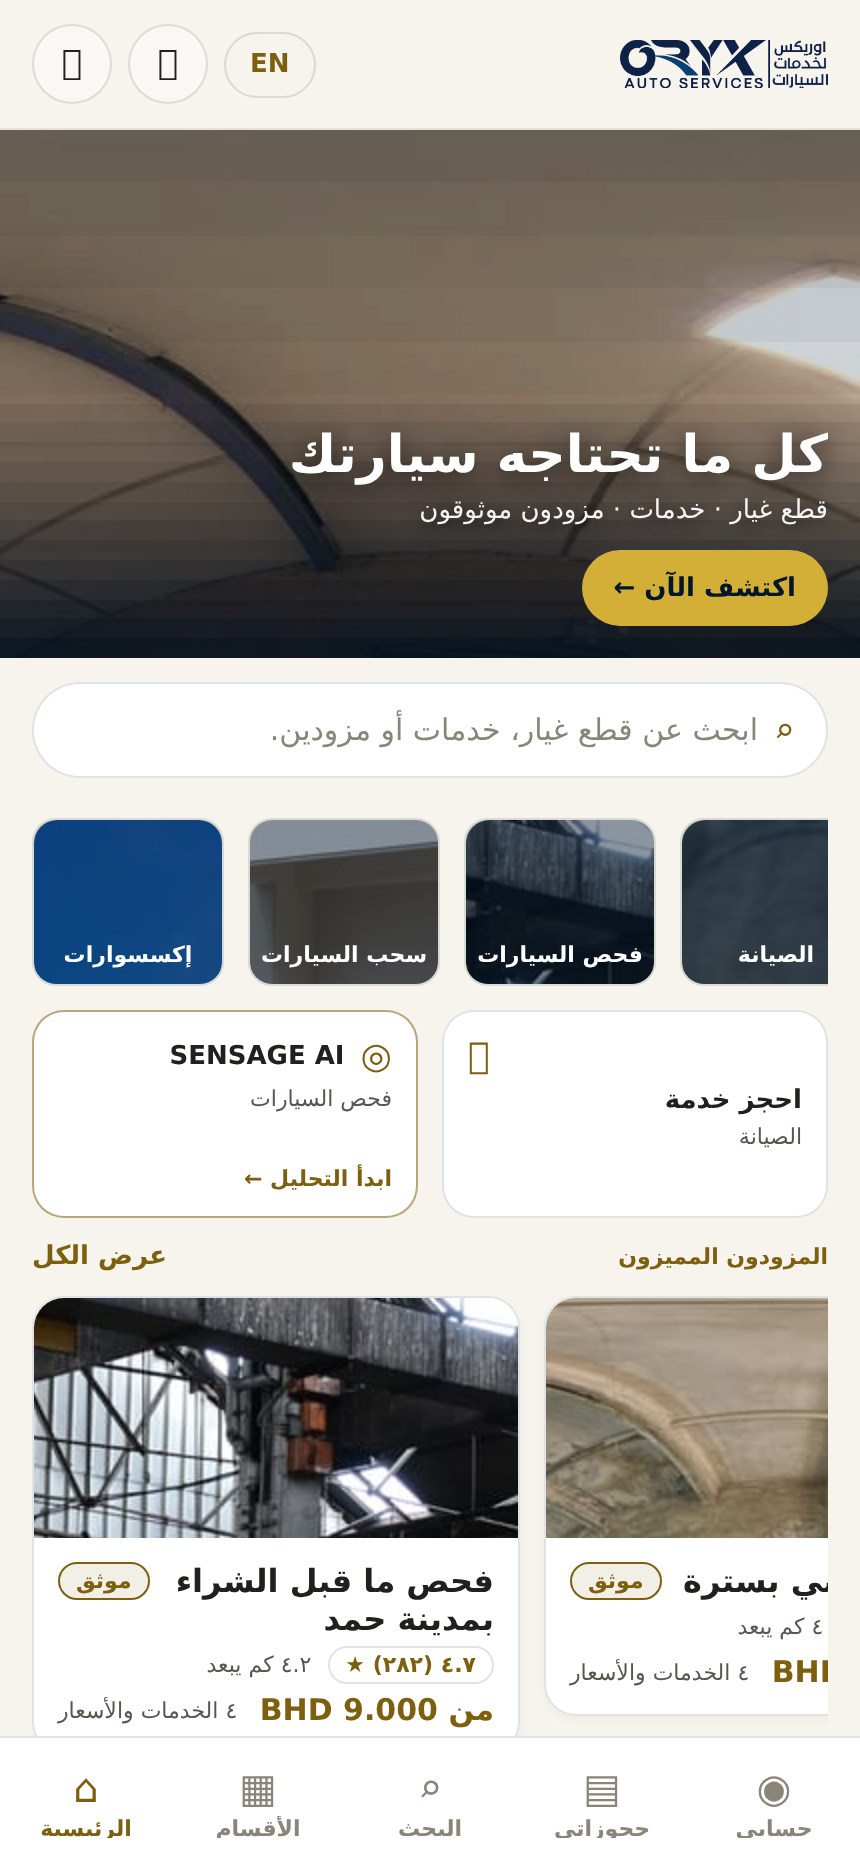
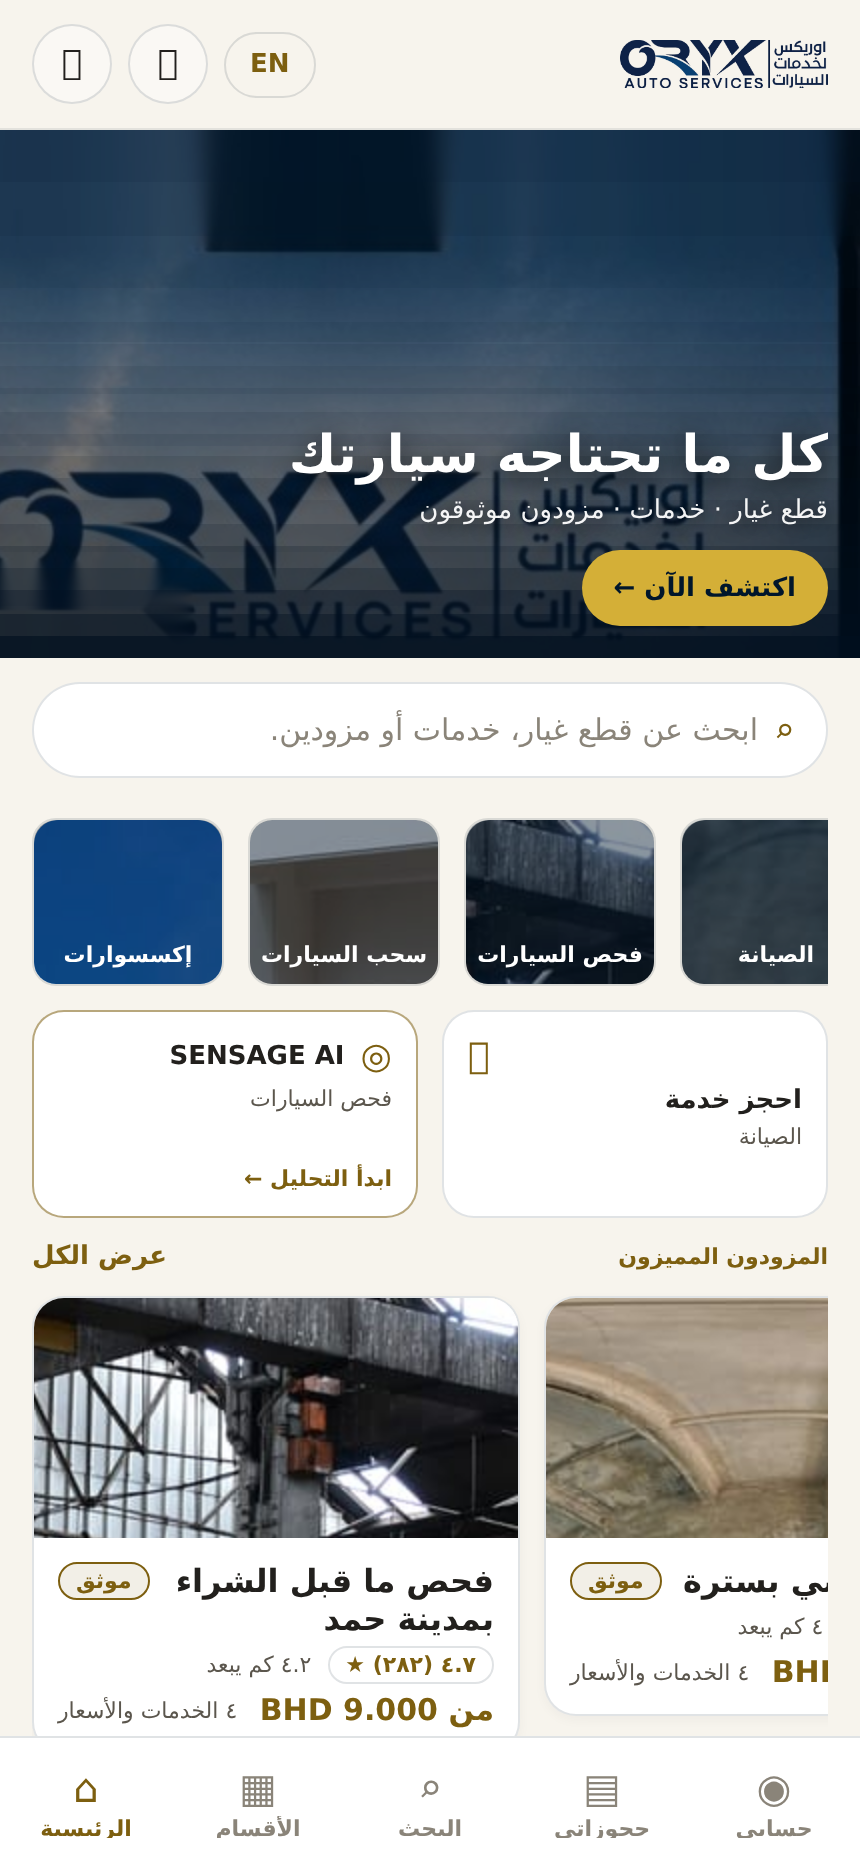
fix(mobile): use the approved hero photograph, not a recoloured substitute
The real defect, and the one every earlier attempt missed: the hero was a
*different photograph*. The previous builds took a bundled garage image and
recoloured it to match the reference's average tone. Recolouring cannot change
composition, and the compositions are opposites.

The measurement that proves it — a 16x16 luminance grid of the hero, compared
with the same grid of the reference:

    before: correlation -0.548   (inverted: mine was bright-bottom, the
                                  reference is bright-middle)
    after:  correlation +0.862

A negative correlation is not a near miss. It is a different scene.

What was done instead
`.run/extract-hero.py` takes the approved mockup, masks the device chrome (the OS
status bar, the ORYX lockup, the tagline, the subtitle, the loader) and inpaints
those regions from the surrounding pixels. What remains is the scene the owner
actually approved, saved as `hero-approved.jpg`. It is used by both the splash and
the homepage.

With the real photograph in place the scrims had to be re-tuned rather than
re-tinted: the image already carries the approved lighting, so the navy fields now
only carry text legibility. The splash band profile now tracks the reference:

    50-60%  reference 71.0  ->  implemented 70.8
    60-70%  reference 38.5  ->  implemented 35.0

A second defect found while measuring: the capture harness had been running
against a missing Playwright browser, so several "after" numbers in the previous
[…]

Changed region(s): [[0.0, 0.0622, 1.0, 0.3423]]

diff --git a/apps/mobile/src/components/launch.tsx b/apps/mobile/src/components/launch.tsx
@@ -99,27 +99,28 @@ export function LaunchScreen() {
 
   const stageKey = STAGES[stage] ?? STAGES[0];
   const width = fill.interpolate({ inputRange: [0, 1], outputRange: ['0%', '100%'] });
-  const glowOpacity = glow.interpolate({ inputRange: [0, 1], outputRange: [0.22, 0.34] });
+  const glowOpacity = glow.interpolate({ inputRange: [0, 1], outputRange: [0.10, 0.20] });
 
   return (
     <View style={styles.root}>
       {/* The vehicle photograph, full bleed. */}
-      <Photo source={photo('goldenHourHero')} radiusValue={0} style={StyleSheet.absoluteFill} />
+      <Photo source={photo('heroApproved')} radiusValue={0} style={StyleSheet.absoluteFill} />
 
-      {/* Golden-hour light: a warm wash breathing across the middle of the frame,
-          which is where the reference photograph is brightest. */}
+      {/* A gentle warm breath over the centre. The photograph is already the
+          approved lighting, so this only lifts it slightly rather than grading
+          it; a heavier wash would re-tint the scene the owner approved. */}
       <Animated.View style={[styles.sunBand, { opacity: glowOpacity }]}>
-        <Scrim color={GOLDEN_HOUR} from={0.95} to={0.0} bands={12} />
+        <Scrim color={GOLDEN_HOUR} from={0.34} to={0.0} bands={12} />
       </Animated.View>
 
       {/* Navy at the top so the lockup reads, and at the bottom so the tagline
           reads. Both fade out, so the photograph reads through the middle of the
           frame the way the approved hero does. */}
       <View style={styles.topFade}>
-        <Scrim color={NAVY} from={0.92} to={0.0} bands={12} />
+        <Scrim color={NAVY} from={0.62} to={0.0} bands={12} />
       </View>
       <View style={styles.bottomFade}>
-        <Scrim color={NAVY_DEEP} from={0.0} to={0.96} bands={16} />
+        <Scrim color={NAVY_DEEP} from={0.0} to={0.99} bands={18} />
       </View>
 
       {/* The official lockup, centred at 20-29% of the frame height. */}
@@ -147,7 +148,7 @@ const styles = StyleSheet.create({
   root: { flex: 1, backgroundColor: NAVY },
   sunBand: { position: 'absolute', left: 0, right: 0, top: '14%', height: '46%' },
   topFade: { position: 'absolute', left: 0, right: 0, top: 0, height: '42%' },
-  bottomFade: { position: 'absolute', left: 0, right: 0, bottom: 0, height: '64%' },
+  bottomFade: { position: 'absolute', left: 0, right: 0, bottom: 0, height: '78%' },
   lockup: {
     position: 'absolute',
     left: 0,

diff --git a/apps/mobile/src/app/(tabs)/home.tsx b/apps/mobile/src/app/(tabs)/home.tsx
@@ -67,10 +67,10 @@ export default function Home() {
           The reference hero occupies roughly the top third of the screen and
           carries the tagline, the subtitle and one gold action. */}
       <View style={styles.heroWrap}>
-        <Photo source={photo('goldenHourHero')} radiusValue={0} style={StyleSheet.absoluteFill} />
-        <Scrim color={brand.navy} from={0.34} to={0.0} bands={10} />
+        <Photo source={photo('heroApproved')} radiusValue={0} style={StyleSheet.absoluteFill} />
+        <Scrim color={brand.navy} from={0.5} to={0.0} bands={10} />
         <View style={styles.heroLowerFade}>
-          <Scrim color={brand.navyDeep} from={0.0} to={0.88} bands={14} />
+          <Scrim color={brand.navyDeep} from={0.0} to={0.96} bands={16} />
         </View>
 
         <View style={styles.heroContent}>
@@ -274,7 +274,7 @@ const styles = StyleSheet.create({
   // The reference hero fills roughly the top third of the frame and is tall
   // enough for the tagline, the subtitle and one action.
   heroWrap: { height: 264, overflow: 'hidden', backgroundColor: brand.navy },
-  heroLowerFade: { position: 'absolute', left: 0, right: 0, bottom: 0, height: '52%' },
+  heroLowerFade: { position: 'absolute', left: 0, right: 0, bottom: 0, height: '68%' },
   heroContent: {
     ...StyleSheet.absoluteFillObject,
     justifyContent: 'flex-end',

diff --git a/apps/mobile/src/lib/assets.ts b/apps/mobile/src/lib/assets.ts
@@ -28,6 +28,7 @@ export const PHOTOS: Record<PhotoKey, ImageSourcePropType> = {
   carwashPremium: require('../../assets/media/carwash-premium.jpg'),
   garageInterior: require('../../assets/media/garage-interior.jpg'),
   goldenHourHero: require('../../assets/media/golden-hour-hero.jpg'),
+  heroApproved: require('../../assets/media/hero-approved.jpg'),
   garageBrastad: require('../../assets/media/garage-brastad.jpg'),
   workshopArtdeco: require('../../assets/media/workshop-artdeco.jpg'),
   evCharging: require('../../assets/media/ev-charging.jpg'),
@@ -43,6 +44,7 @@ export const PHOTOS_SMALL: Record<PhotoKey, ImageSourcePropType> = {
   carwashPremium: require('../../assets/media/carwash-premium-sm.jpg'),
   garageInterior: require('../../assets/media/garage-interior-sm.jpg'),
   goldenHourHero: require('../../assets/media/golden-hour-hero-sm.jpg'),
+  heroApproved: require('../../assets/media/hero-approved-sm.jpg'),
   garageBrastad: require('../../assets/media/garage-brastad-sm.jpg'),
   workshopArtdeco: require('../../assets/media/workshop-artdeco-sm.jpg'),
   evCharging: require('../../assets/media/ev-charging-sm.jpg'),

diff --git a/apps/mobile/src/demo/catalogue.ts b/apps/mobile/src/demo/catalogue.ts
@@ -52,6 +52,8 @@ export type PhotoKey =
   | 'garageInterior'
   /** The splash hero: the garage photograph graded to the reference's golden hour. */
   | 'goldenHourHero'
+  /** The approved hero scene, extracted from the owner's splash mockup. */
+  | 'heroApproved'
   | 'garageBrastad'
   | 'workshopArtdeco'
   | 'evCharging';

diff --git a/.run/extract-hero.py b/.run/extract-hero.py
@@ -1,0 +1,71 @@
+"""Extract the approved hero photograph from the splash reference mockup.
+
+The mockup is a device frame: it carries the OS status bar, the ORYX lockup, the
+tagline, the subtitle and a loader over the photograph. What the owner approved
+is the *photograph*; the type is reproduced in React Native, not baked in.
+
+This masks every text/UI region with a feathered patch and inpaints it from the
+surrounding pixels, so what remains is the scene alone. The result is then
+cropped to the phone screen and saved as the hero asset.
+
+Run: python3 .run/extract-hero.py
+"""
+from PIL import Image, ImageFilter
+import numpy as np
+
+SRC = 'apps/mobile/design-reference/ORYX_Homepage_Reference.jpg'
+OUT = 'apps/mobile/assets/media/hero-approved.jpg'
+OUT_SM = 'apps/mobile/assets/media/hero-approved-sm.jpg'
+BOX = (161, 0, 695, 1024)   # the left phone screen
+
+# Text / chrome regions, in the crop's own coordinates. Taken from the OCR boxes
+# above, padded generously so no glyph edge survives to be mistaken for detail.
+REGIONS = [
+    (0, 0, 534, 60),        # OS status bar
+    (60, 215, 200, 265),    # ORYX lockup
+    (0, 360, 534, 700),     # tagline block and the loader area
+    (40, 730, 534, 890),    # tagline + subtitle
+    (0, 890, 534, 1024),    # bottom loader strip
+]
+
+im = Image.open(SRC).convert('RGB').crop(BOX)
+a = np.asarray(im, float).copy()
+h, w, _ = a.shape
+
+# A mask of everything we intend to replace.
+mask = np.zeros((h, w), bool)
+for (x0, y0, x1, y1) in REGIONS:
+    mask[max(0, y0):min(h, y1), max(0, x0):min(w, x1)] = True
+
+# Inpaint: repeatedly grow the known pixels into the masked region, so the fill
+# follows the surrounding gradients instead of a flat colour.
+img = a.copy()
+known = ~mask
+for _ in range(140):
+    if known.all():
+        break
+    # 3x3 mean of known neighbours, for every unknown pixel
+    acc = np.zeros_like(img)
+    cnt = np.zeros((h, w), float)
+    for dy in (-1, 0, 1):
+        for dx in (-1, 0, 1):
+            sy0, sy1 = max(0, dy), h + min(0, dy)
+            sx0, sx1 = max(0, dx), w + min(0, dx)
+            ty0, ty1 = max(0, -dy), h + min(0, -dy)
+            tx0, tx1 = max(0, -dx), w + min(0, -dx)
+            src_known = known[sy0:sy1, sx0:sx1]
+            acc[ty0:ty1, tx0:tx1] += img[sy0:sy1, sx0:sx1] * src_known[..., None]
+            cnt[ty0:ty1, tx0:tx1] += src_known
+    fillable = (~known) & (cnt > 0)
+    img[fillable] = acc[fillable] / cnt[fillable][..., None]
+    known = known | fillable
+
+out = Image.fromarray(np.clip(img, 0, 255).astype('uint8'))
+out = out.filter(ImageFilter.GaussianBlur(0.6))
+out.save(OUT, quality=90, optimize=True)
+out.resize((w // 2, h // 2), Image.LANCZOS).save(OUT_SM, quality=86, optimize=True)
+
+m = np.asarray(out, float)
+print(f'wrote {OUT} {out.size}')
+print(f'  mean rgb ({m[:,:,0].mean():.0f},{m[:,:,1].mean():.0f},{m[:,:,2].mean():.0f})')
+print(f'  warm fraction (r-b>18): {((m[:,:,0]-m[:,:,2])>18).mean():.3f}')
